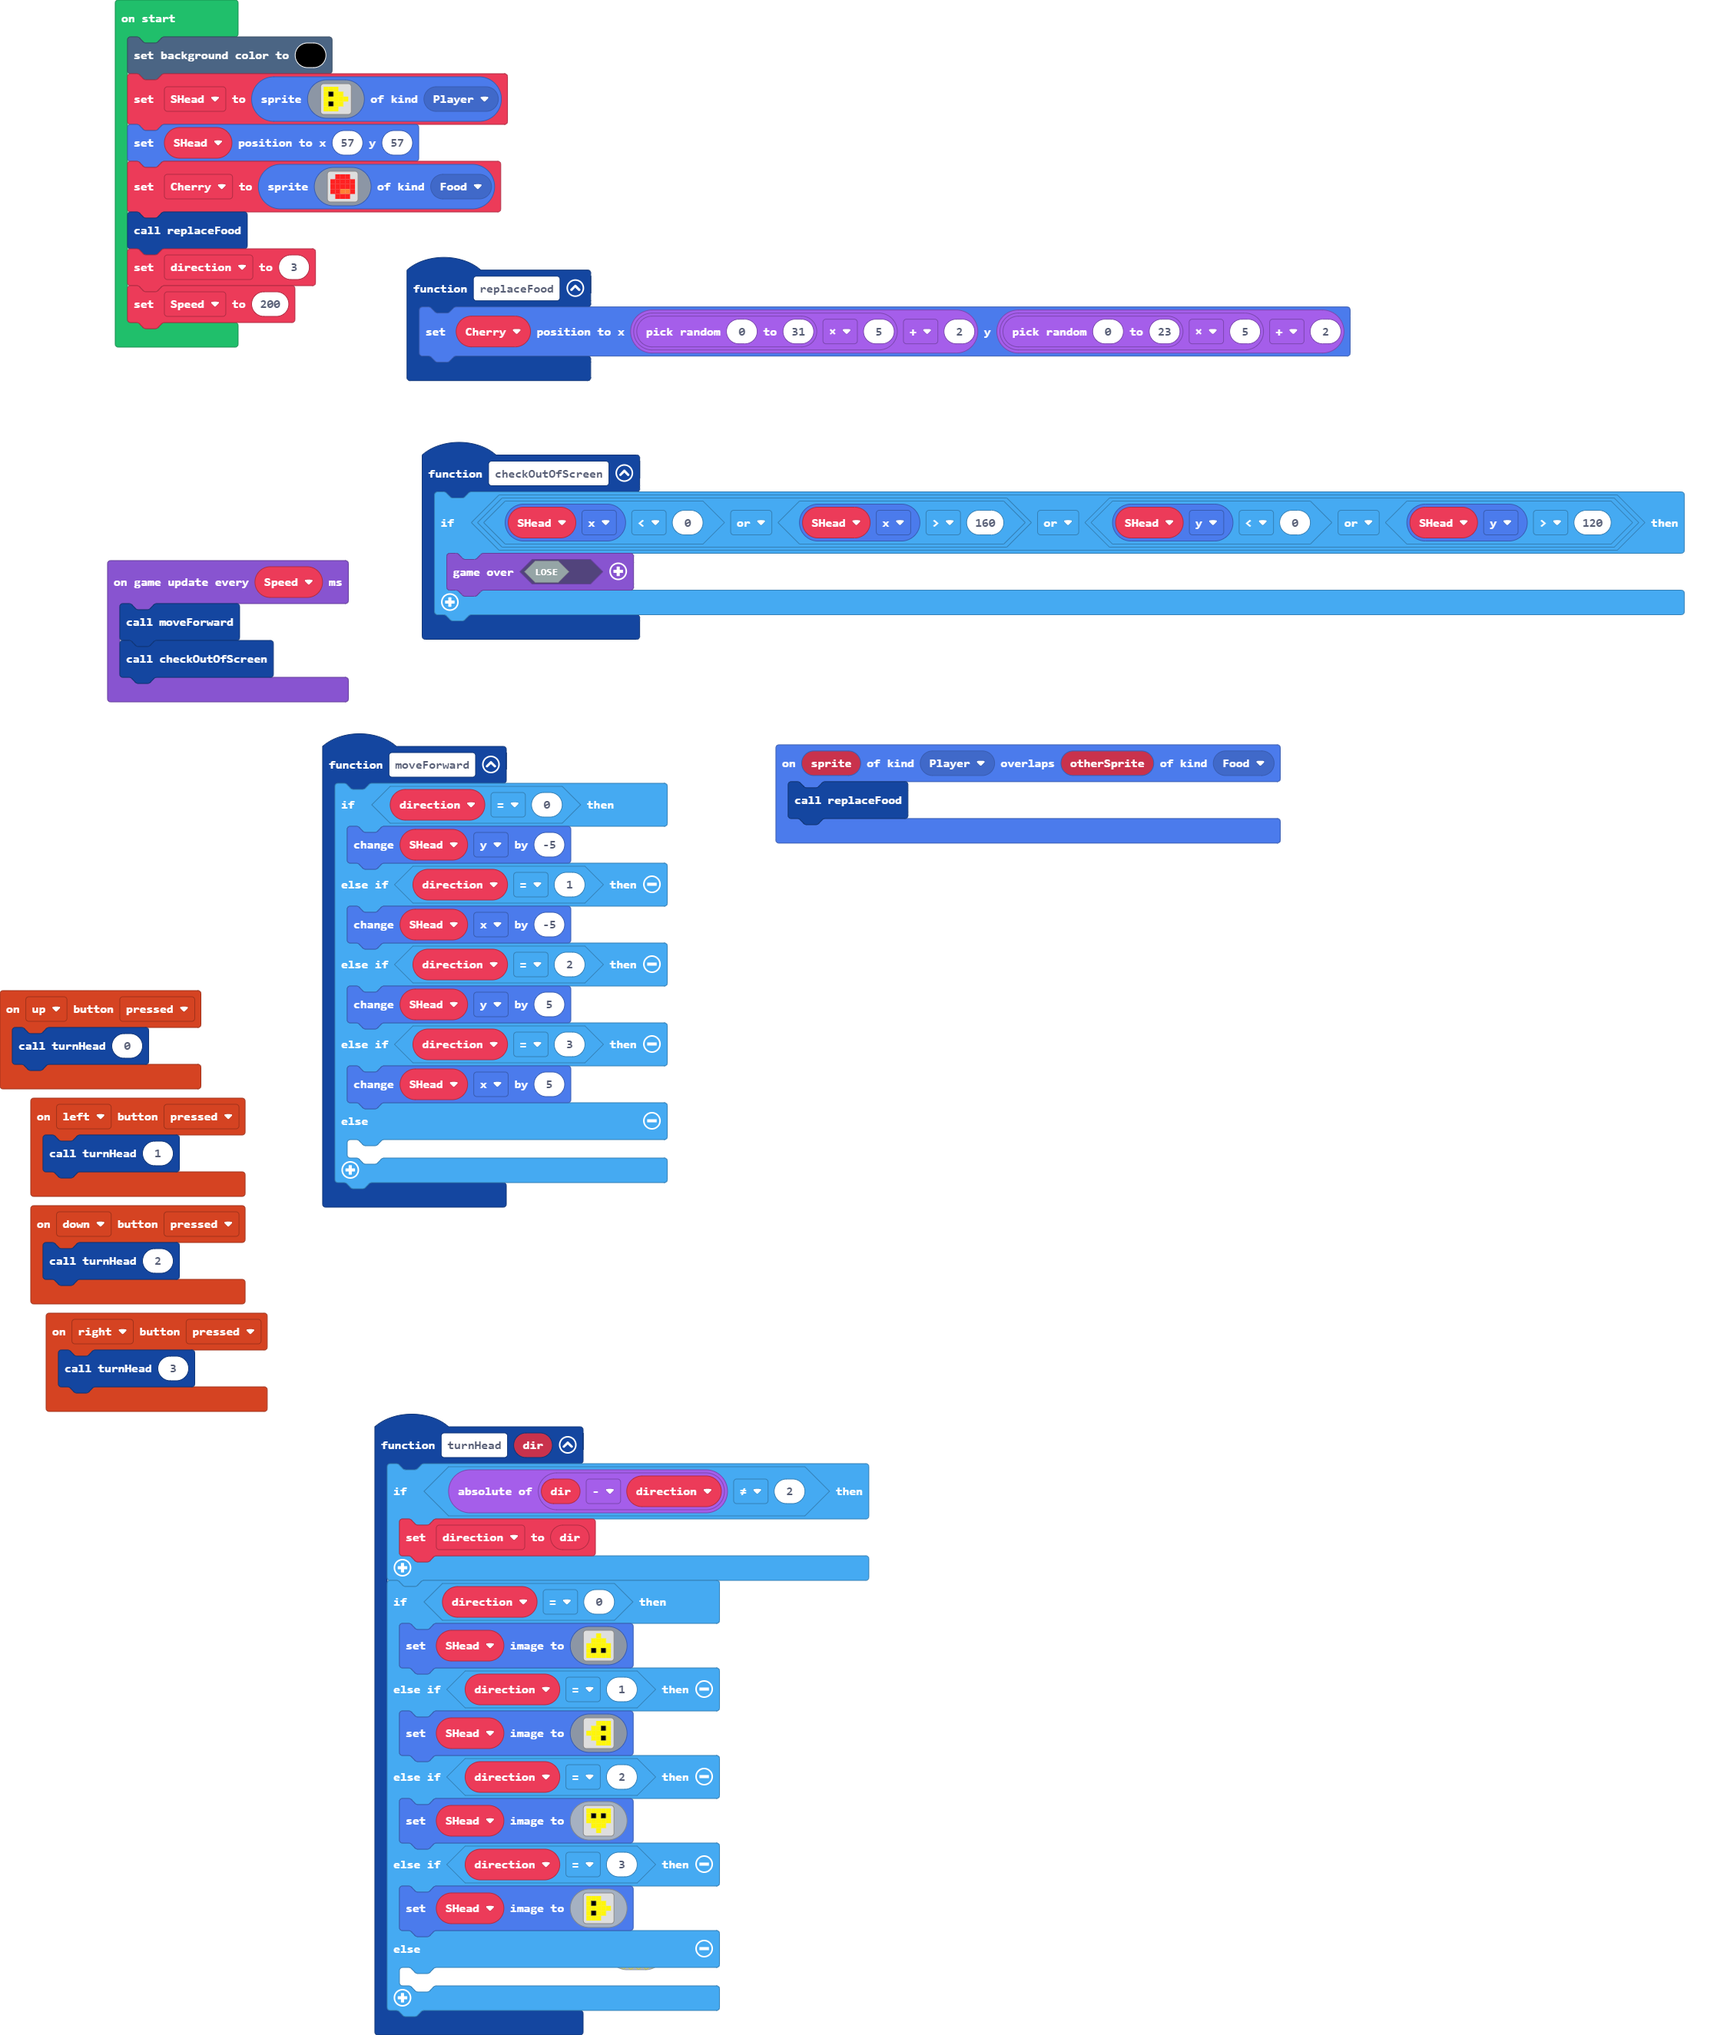
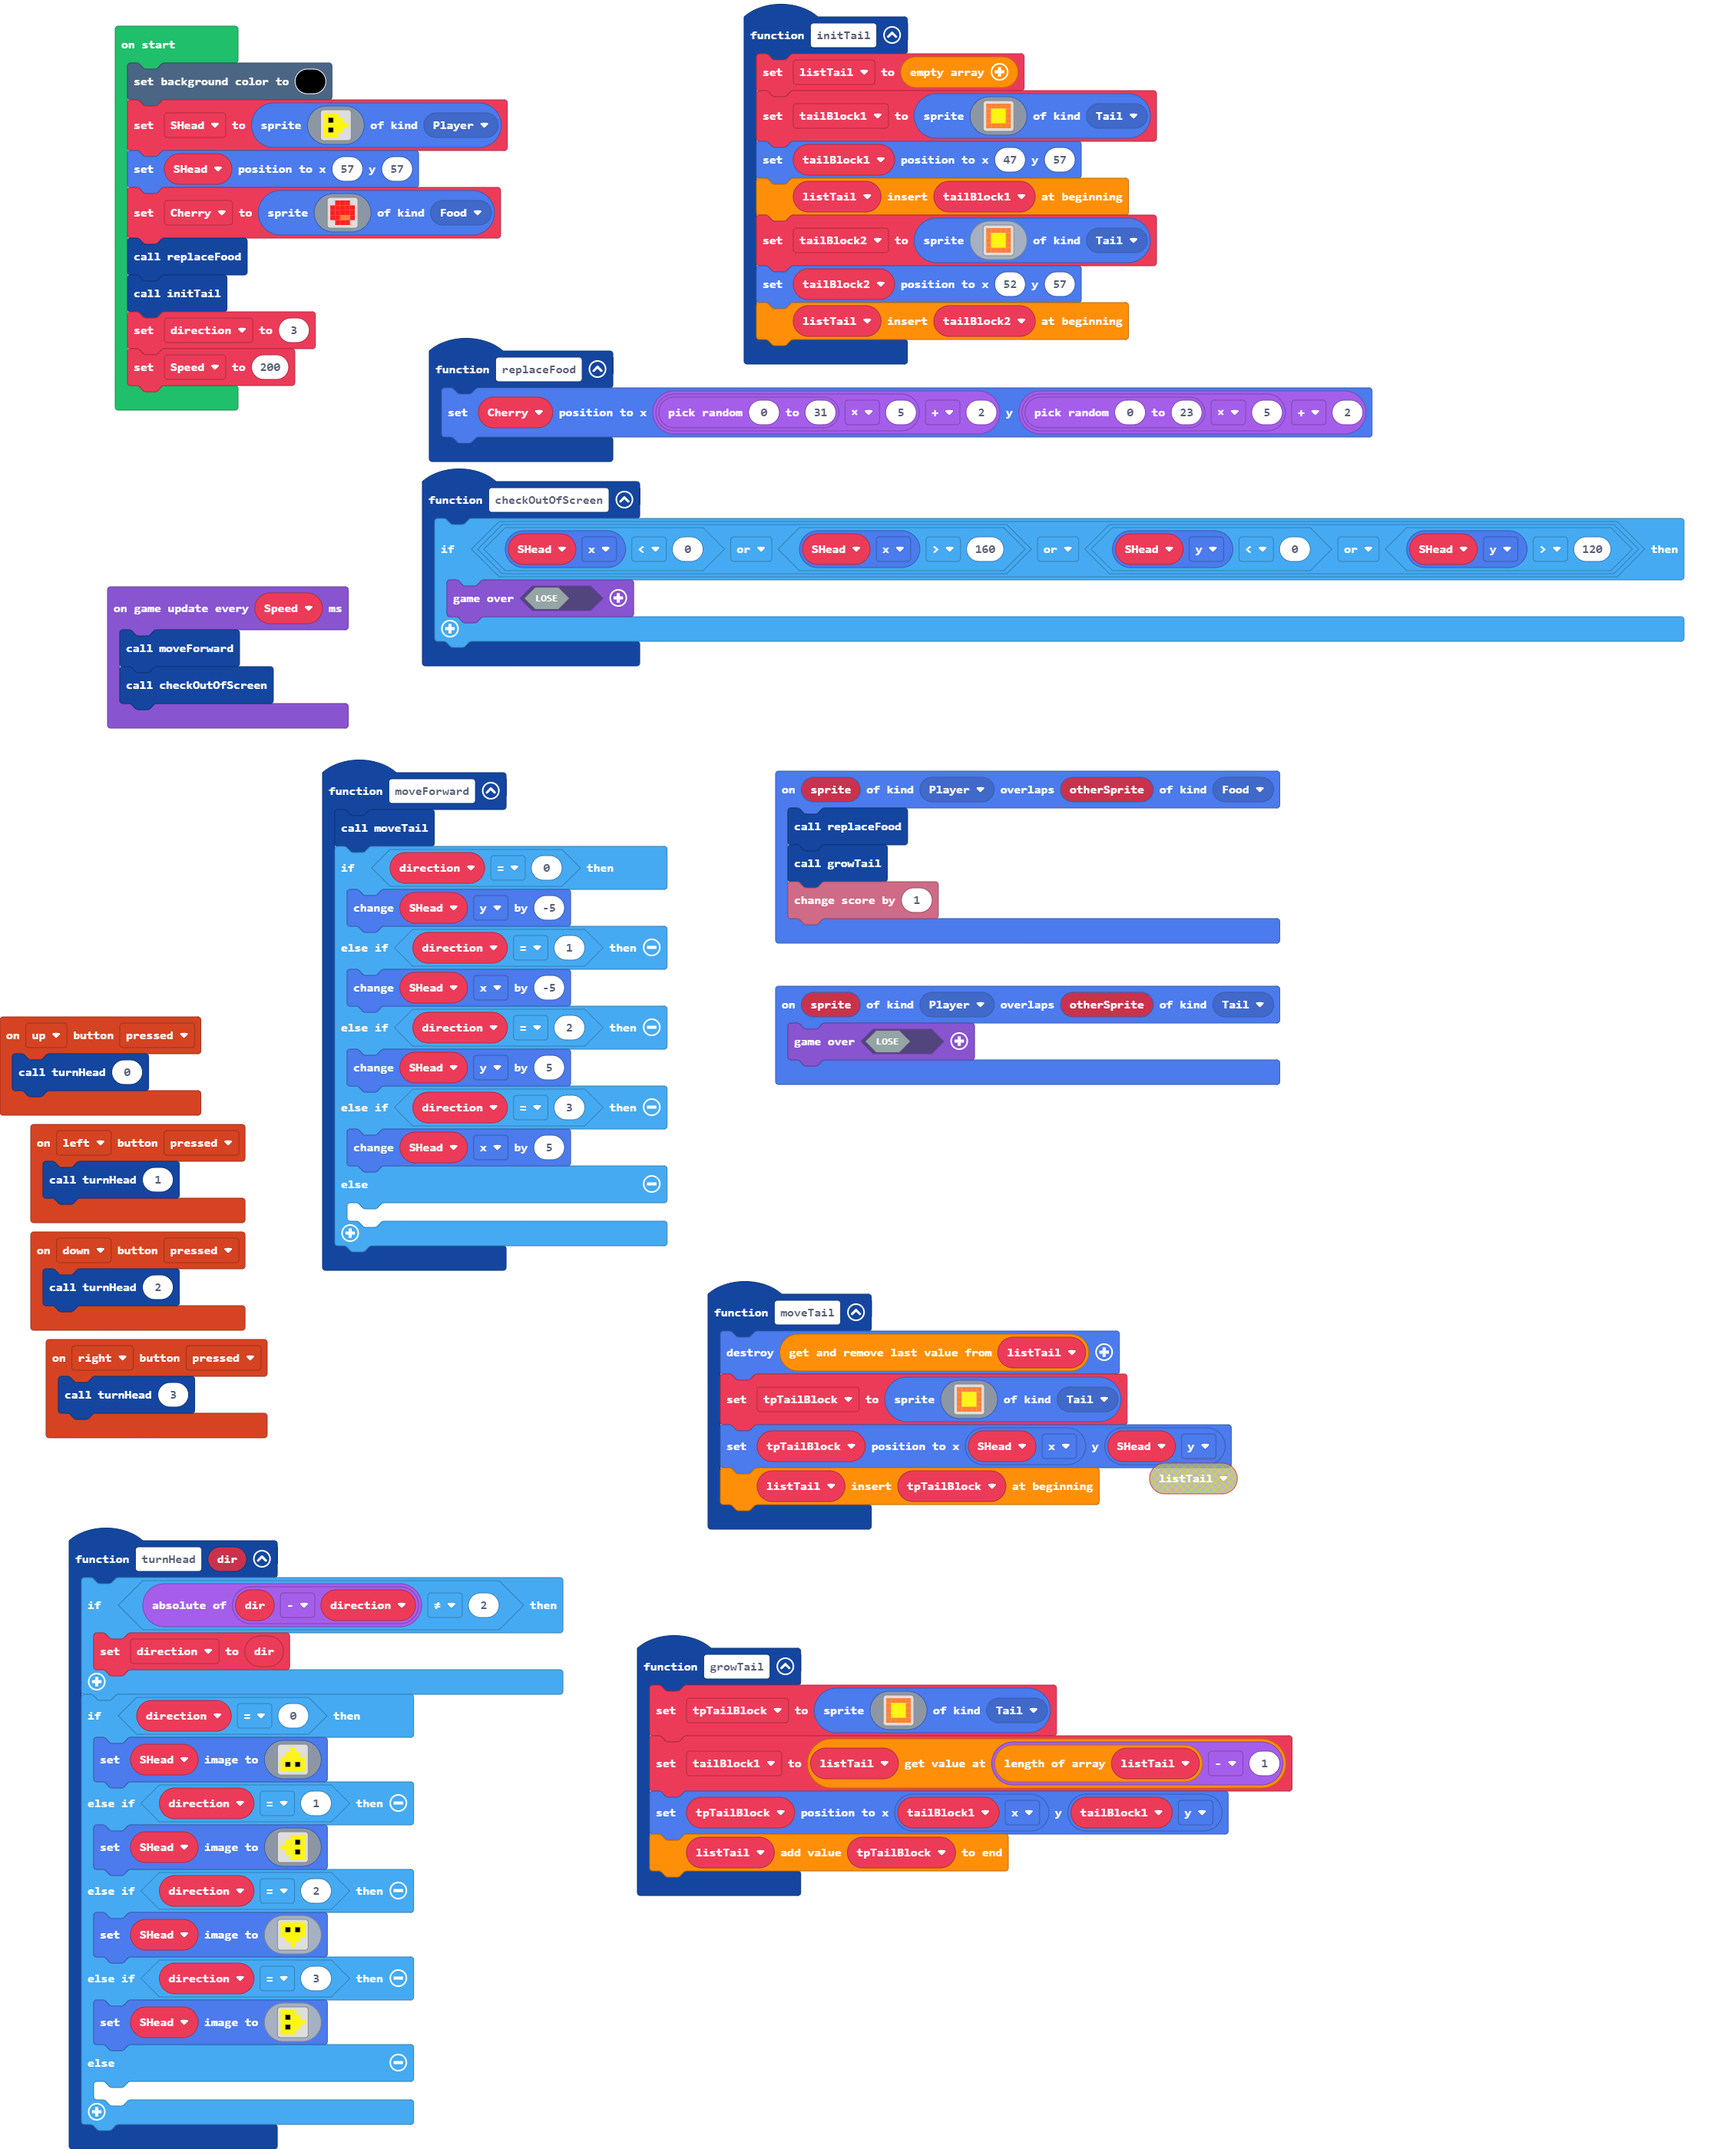
got a tail now

diff --git a/main.ts b/main.ts
@@ -1,7 +1,11 @@
+namespace SpriteKind {
+    export const Tail = SpriteKind.create()
+}
 controller.up.onEvent(ControllerButtonEvent.Pressed, function () {
     turnHead(0)
 })
 function moveForward () {
+    moveTail()
     if (direction == 0) {
         SHead.y += -5
     } else if (direction == 1) {
@@ -14,6 +18,9 @@ function moveForward () {
     	
     }
 }
+sprites.onOverlap(SpriteKind.Player, SpriteKind.Tail, function (sprite, otherSprite) {
+    game.over(false)
+})
 controller.left.onEvent(ControllerButtonEvent.Pressed, function () {
     turnHead(1)
 })
@@ -22,14 +29,61 @@ function checkOutOfScreen () {
         game.over(false)
     }
 }
+function initTail () {
+    listTail = []
+    tailBlock1 = sprites.create(img`
+        4 4 4 4 4 
+        4 5 5 5 4 
+        4 5 5 5 4 
+        4 5 5 5 4 
+        4 4 4 4 4 
+        `, SpriteKind.Tail)
+    tailBlock1.setPosition(47, 57)
+    listTail.unshift(tailBlock1)
+    tailBlock2 = sprites.create(img`
+        4 4 4 4 4 
+        4 5 5 5 4 
+        4 5 5 5 4 
+        4 5 5 5 4 
+        4 4 4 4 4 
+        `, SpriteKind.Tail)
+    tailBlock2.setPosition(52, 57)
+    listTail.unshift(tailBlock2)
+}
+function growTail () {
+    tpTailBlock = sprites.create(img`
+        4 4 4 4 4 
+        4 5 5 5 4 
+        4 5 5 5 4 
+        4 5 5 5 4 
+        4 4 4 4 4 
+        `, SpriteKind.Tail)
+    tailBlock1 = listTail[listTail.length - 1]
+    tpTailBlock.setPosition(tailBlock1.x, tailBlock1.y)
+    listTail.push(tpTailBlock)
+}
 controller.right.onEvent(ControllerButtonEvent.Pressed, function () {
     turnHead(3)
 })
+function moveTail () {
+    listTail.pop().destroy()
+    tpTailBlock = sprites.create(img`
+        4 4 4 4 4 
+        4 5 5 5 4 
+        4 5 5 5 4 
+        4 5 5 5 4 
+        4 4 4 4 4 
+        `, SpriteKind.Tail)
+    tpTailBlock.setPosition(SHead.x, SHead.y)
+    listTail.unshift(tpTailBlock)
+}
 controller.down.onEvent(ControllerButtonEvent.Pressed, function () {
     turnHead(2)
 })
 sprites.onOverlap(SpriteKind.Player, SpriteKind.Food, function (sprite, otherSprite) {
     replaceFood()
+    growTail()
+    info.changeScoreBy(1)
 })
 function replaceFood () {
     Cherry.setPosition(randint(0, 31) * 5 + 2, randint(0, 23) * 5 + 2)
@@ -74,6 +128,10 @@ function turnHead (dir: number) {
     	
     }
 }
+let tpTailBlock: Sprite = null
+let tailBlock2: Sprite = null
+let tailBlock1: Sprite = null
+let listTail: Sprite[] = []
 let direction = 0
 let Cherry: Sprite = null
 let SHead: Sprite = null
@@ -94,6 +152,7 @@ Cherry = sprites.create(img`
     . 2 2 2 . 
     `, SpriteKind.Food)
 replaceFood()
+initTail()
 direction = 3
 let Speed = 200
 game.onUpdateInterval(Speed, function () {
